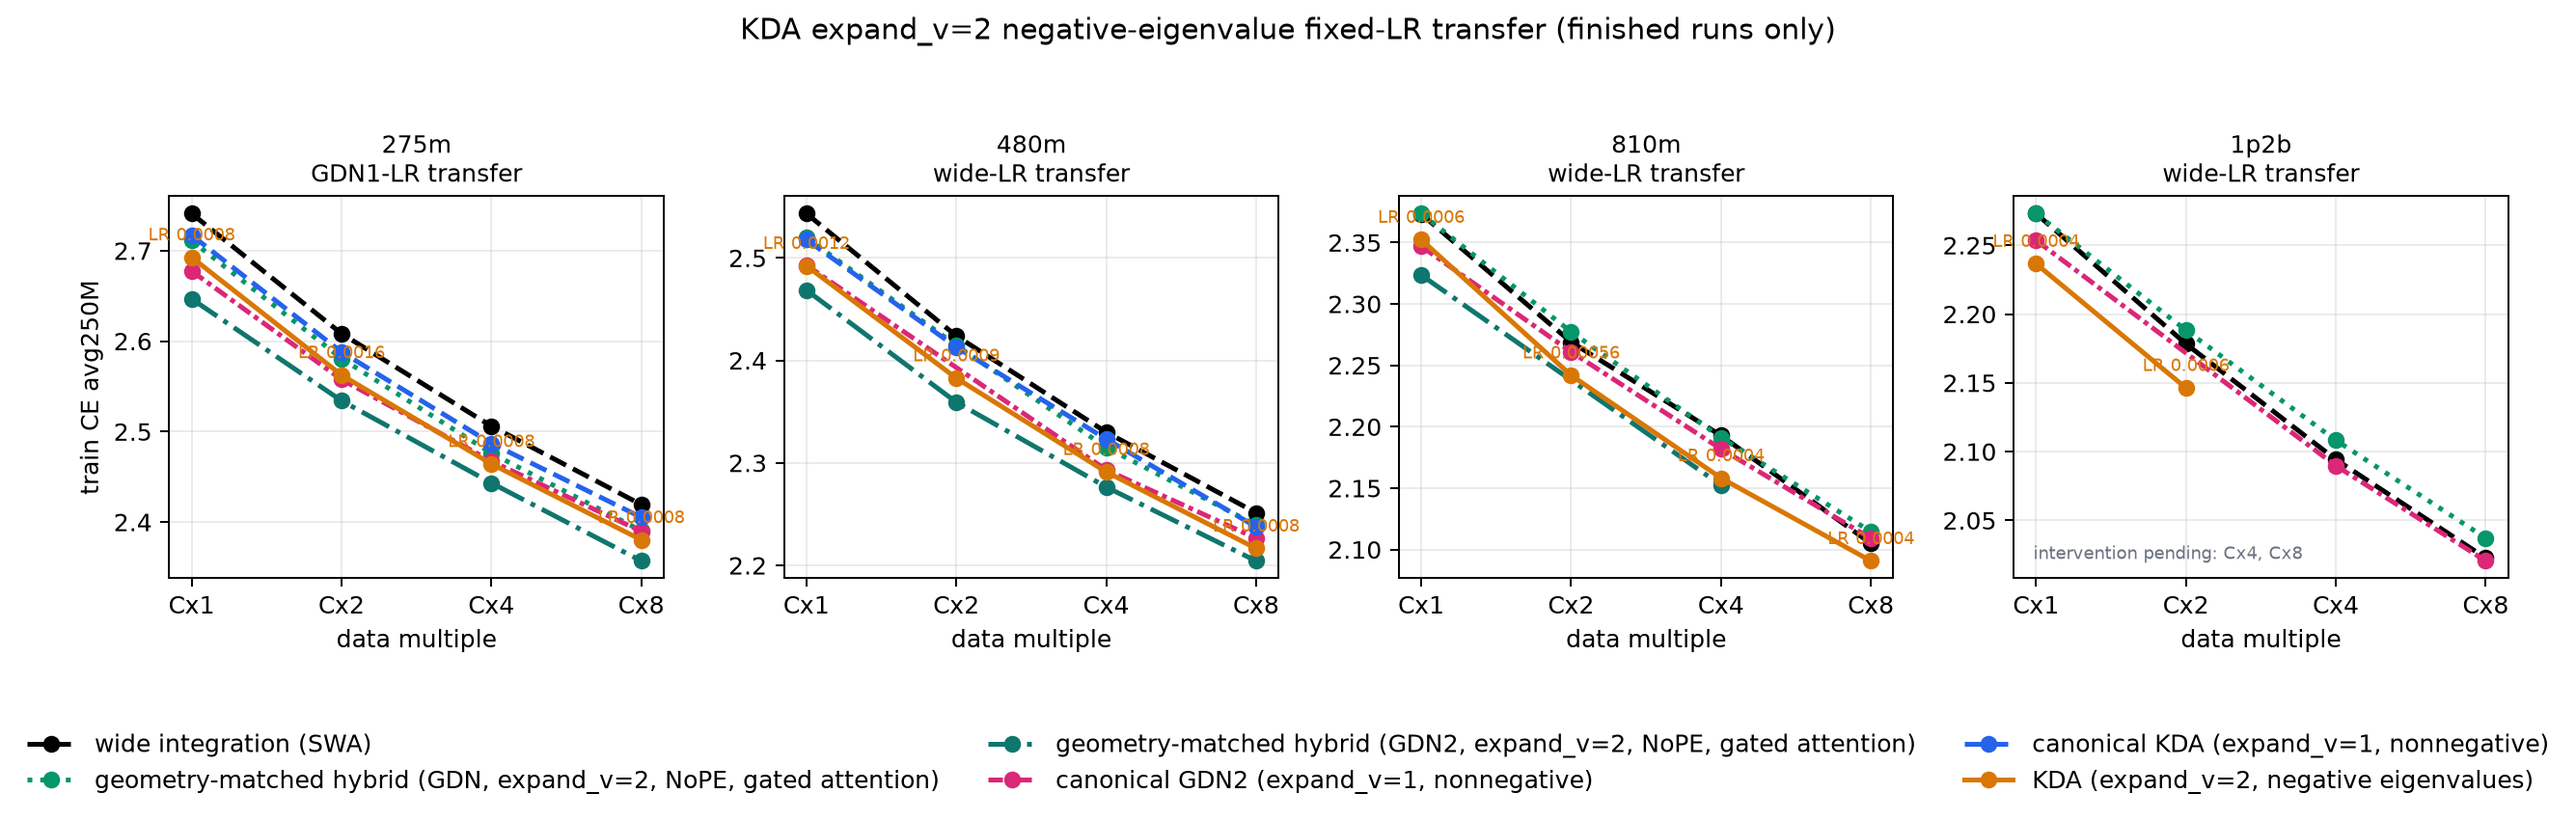
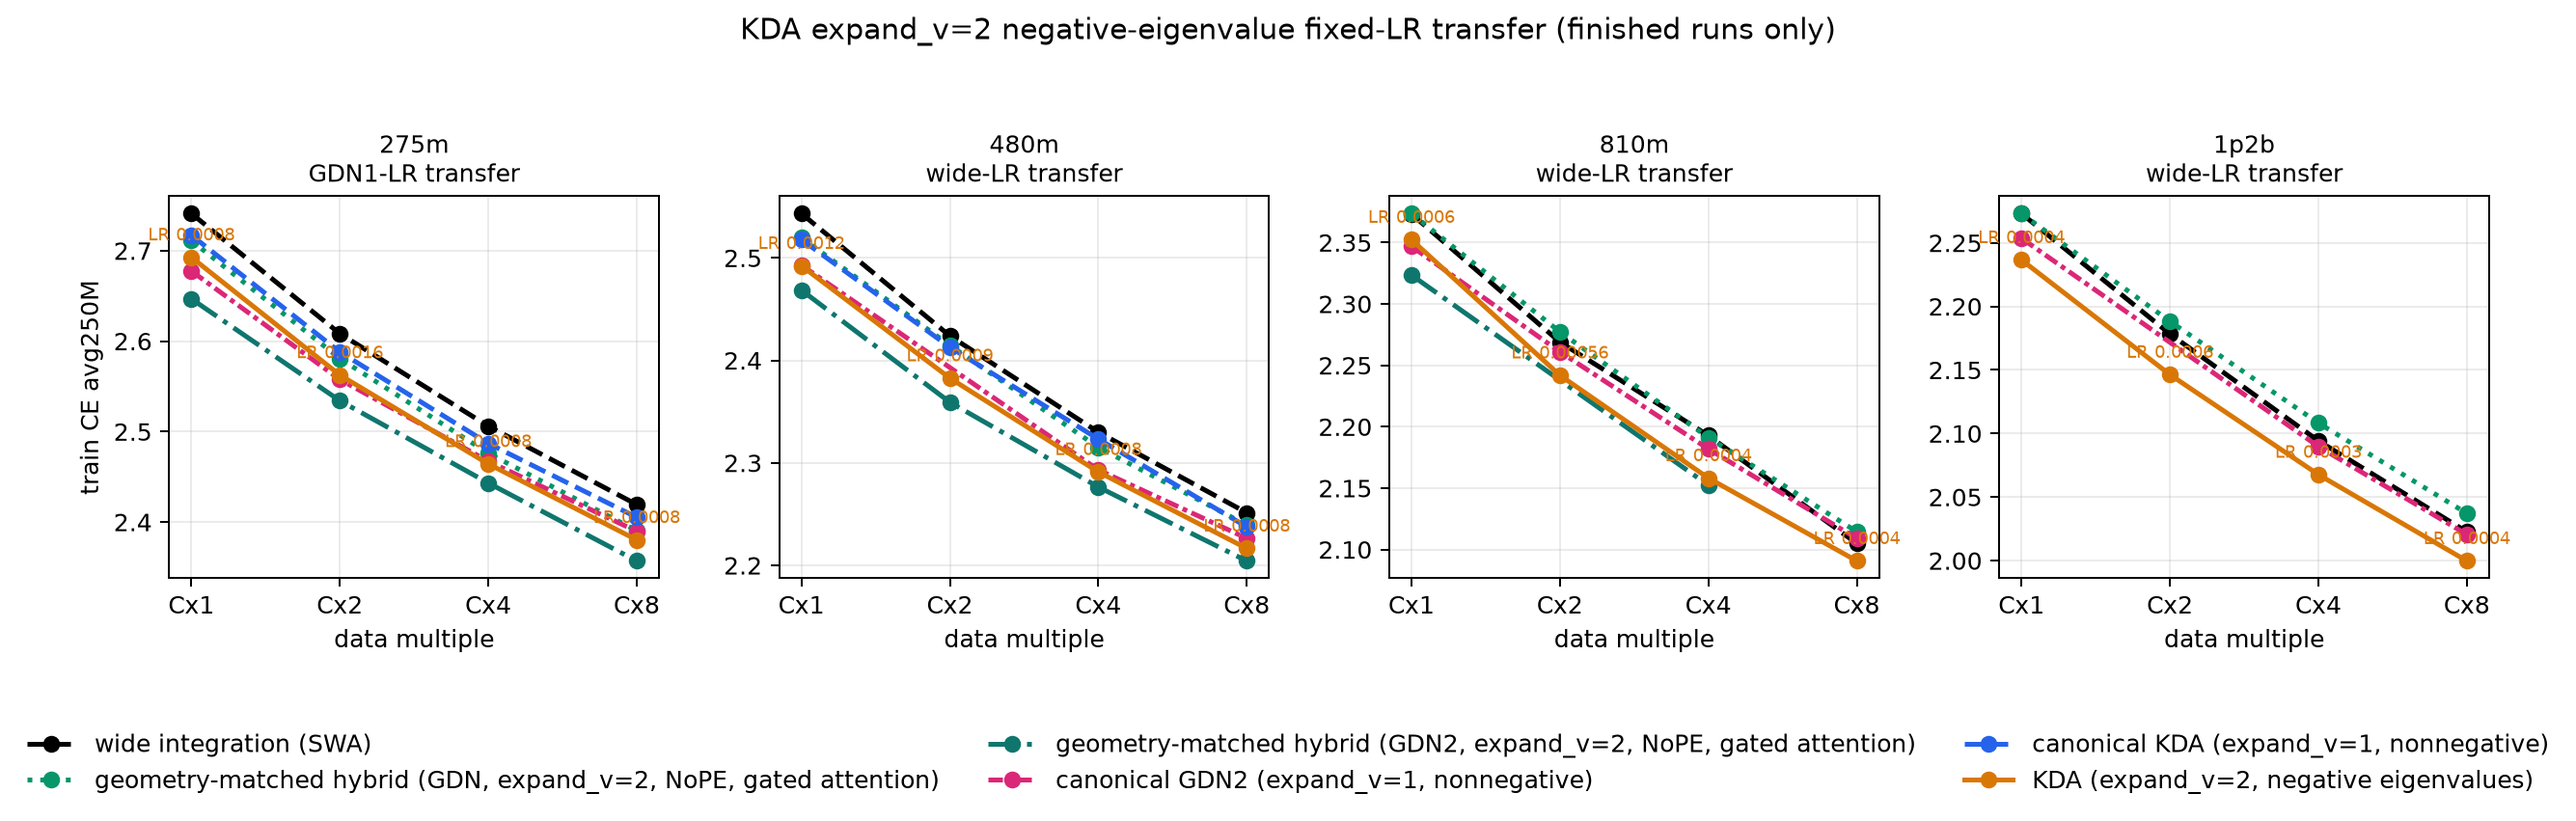
Add final 1.2B KDA comparison points

diff --git a/src/scripts/train/jacobm_olmoe_ladder/v2/results/pretraining/canonical_gdn2_kda/kda_ev2_neg_scale_results.md b/src/scripts/train/jacobm_olmoe_ladder/v2/results/pretraining/canonical_gdn2_kda/kda_ev2_neg_scale_results.md
@@ -1,6 +1,6 @@
 # KDA expand_v=2 negative-eigenvalue fixed-LR transfer
 
-Generated: `2026-07-29T15:42:01.060305+00:00`
+Generated: `2026-07-30T15:49:13.862921+00:00`
 
 Selection metric: final `250M`-token mean training CE. Only finished runs are eligible.
 The optimal-LR summary includes only bracketed 275M sweeps with a valid quadratic fit.
@@ -25,8 +25,8 @@ Fitted LR minima in the 275M U-plot are visual aids and are never used to select
 | 810m | Cx8 | fixed-LR transfer | finished | wide_integration: 2.104939 @ 0.0004; geometry_gdn_ev2_nope_gated: 2.114516 @ 0.0004; geometry_gdn2_ev2_nope_gated: —; geometry_gdn2_ev1_noneg_nope_gated: 2.109020 @ 0.0004; geometry_kda_ev1_noneg_nope_gated: — | 2.090719 (0.0004) | wide_integration: -0.014220; geometry_gdn_ev2_nope_gated: -0.023797; geometry_gdn2_ev2_nope_gated: —; geometry_gdn2_ev1_noneg_nope_gated: -0.018301; geometry_kda_ev1_noneg_nope_gated: — |
 | 1p2b | Cx1 | fixed-LR transfer | finished | wide_integration: 2.273062 @ 0.0004; geometry_gdn_ev2_nope_gated: 2.273007 @ 0.0004; geometry_gdn2_ev2_nope_gated: —; geometry_gdn2_ev1_noneg_nope_gated: 2.253605 @ 0.0004; geometry_kda_ev1_noneg_nope_gated: — | 2.236574 (0.0004) | wide_integration: -0.036488; geometry_gdn_ev2_nope_gated: -0.036433; geometry_gdn2_ev2_nope_gated: —; geometry_gdn2_ev1_noneg_nope_gated: -0.017031; geometry_kda_ev1_noneg_nope_gated: — |
 | 1p2b | Cx2 | fixed-LR transfer | finished | wide_integration: 2.178332 @ 0.0006; geometry_gdn_ev2_nope_gated: 2.188236 @ 0.0006; geometry_gdn2_ev2_nope_gated: —; geometry_gdn2_ev1_noneg_nope_gated: —; geometry_kda_ev1_noneg_nope_gated: — | 2.146299 (0.0006) | wide_integration: -0.032034; geometry_gdn_ev2_nope_gated: -0.041938; geometry_gdn2_ev2_nope_gated: —; geometry_gdn2_ev1_noneg_nope_gated: —; geometry_kda_ev1_noneg_nope_gated: — |
-| 1p2b | Cx4 | fixed-LR transfer | pending | wide_integration: 2.094219 @ 0.0003; geometry_gdn_ev2_nope_gated: 2.108263 @ 0.0003; geometry_gdn2_ev2_nope_gated: —; geometry_gdn2_ev1_noneg_nope_gated: 2.089778 @ 0.0003; geometry_kda_ev1_noneg_nope_gated: — | — | wide_integration: —; geometry_gdn_ev2_nope_gated: —; geometry_gdn2_ev2_nope_gated: —; geometry_gdn2_ev1_noneg_nope_gated: —; geometry_kda_ev1_noneg_nope_gated: — |
-| 1p2b | Cx8 | fixed-LR transfer | pending | wide_integration: 2.022641 @ 0.0004; geometry_gdn_ev2_nope_gated: 2.037147 @ 0.0004; geometry_gdn2_ev2_nope_gated: —; geometry_gdn2_ev1_noneg_nope_gated: 2.020529 @ 0.0004; geometry_kda_ev1_noneg_nope_gated: — | — | wide_integration: —; geometry_gdn_ev2_nope_gated: —; geometry_gdn2_ev2_nope_gated: —; geometry_gdn2_ev1_noneg_nope_gated: —; geometry_kda_ev1_noneg_nope_gated: — |
+| 1p2b | Cx4 | fixed-LR transfer | finished | wide_integration: 2.094219 @ 0.0003; geometry_gdn_ev2_nope_gated: 2.108263 @ 0.0003; geometry_gdn2_ev2_nope_gated: —; geometry_gdn2_ev1_noneg_nope_gated: 2.089778 @ 0.0003; geometry_kda_ev1_noneg_nope_gated: — | 2.067653 (0.0003) | wide_integration: -0.026567; geometry_gdn_ev2_nope_gated: -0.040610; geometry_gdn2_ev2_nope_gated: —; geometry_gdn2_ev1_noneg_nope_gated: -0.022125; geometry_kda_ev1_noneg_nope_gated: — |
+| 1p2b | Cx8 | fixed-LR transfer | finished | wide_integration: 2.022641 @ 0.0004; geometry_gdn_ev2_nope_gated: 2.037147 @ 0.0004; geometry_gdn2_ev2_nope_gated: —; geometry_gdn2_ev1_noneg_nope_gated: 2.020529 @ 0.0004; geometry_kda_ev1_noneg_nope_gated: — | 1.999736 (0.0004) | wide_integration: -0.022905; geometry_gdn_ev2_nope_gated: -0.037411; geometry_gdn2_ev2_nope_gated: —; geometry_gdn2_ev1_noneg_nope_gated: -0.020793; geometry_kda_ev1_noneg_nope_gated: — |
 
 ## Runs
 
@@ -163,7 +163,9 @@ Fitted LR minima in the 275M U-plot are visual aids and are never used to select
 | 1p2b | wide integration (SWA) | 2 | 0.0006 | finished | 42.835 | 2.178332 | 0 reset(s); 1 duplicate token sample(s) removed | [jfwntmwm](https://wandb.ai/ai2-llm/jacobm-olmoe-ladder/runs/jfwntmwm) |
 | 1p2b | canonical GDN2 (expand_v=1, nonnegative) | 4 | 0.0003 | finished | 88.040 | 2.089778 | 0 reset(s); 1 duplicate token sample(s) removed | [ws7c1f1s](https://wandb.ai/ai2-llm/jacobm-olmoe-ladder/runs/ws7c1f1s) |
 | 1p2b | geometry-matched hybrid (GDN, expand_v=2, NoPE, gated attention) | 4 | 0.0003 | finished | 93.719 | 2.108263 | 0 reset(s); 1 duplicate token sample(s) removed | [bhr5mgpr](https://wandb.ai/ai2-llm/jacobm-olmoe-ladder/runs/bhr5mgpr) |
+| 1p2b | KDA (expand_v=2, negative eigenvalues) | 4 | 0.0003 | finished | 89.841 | 2.067653 | — | [8j8vgags](https://wandb.ai/ai2-llm/jacobm-olmoe-ladder/runs/8j8vgags) |
 | 1p2b | wide integration (SWA) | 4 | 0.0003 | finished | 85.670 | 2.094219 | 0 reset(s); 1 duplicate token sample(s) removed | [u7ab1tpb](https://wandb.ai/ai2-llm/jacobm-olmoe-ladder/runs/u7ab1tpb) |
 | 1p2b | canonical GDN2 (expand_v=1, nonnegative) | 8 | 0.0004 | finished | 176.081 | 2.020529 | local W&B recovery (SHA256 04755c05000b…) | [dlerge4x](https://wandb.ai/ai2-llm/jacobm-olmoe-ladder/runs/dlerge4x) |
 | 1p2b | geometry-matched hybrid (GDN, expand_v=2, NoPE, gated attention) | 8 | 0.0004 | finished | 187.437 | 2.037147 | 0 reset(s); 1 duplicate token sample(s) removed | [z4zmtqmu](https://wandb.ai/ai2-llm/jacobm-olmoe-ladder/runs/z4zmtqmu) |
+| 1p2b | KDA (expand_v=2, negative eigenvalues) | 8 | 0.0004 | finished | 179.682 | 1.999736 | — | [shy5gj1d](https://wandb.ai/ai2-llm/jacobm-olmoe-ladder/runs/shy5gj1d) |
 | 1p2b | wide integration (SWA) | 8 | 0.0004 | finished | 171.340 | 2.022641 | 0 reset(s); 1 duplicate token sample(s) removed | [bqjzmiqi](https://wandb.ai/ai2-llm/jacobm-olmoe-ladder/runs/bqjzmiqi) |

diff --git a/src/scripts/train/jacobm_olmoe_ladder/v2/results/pretraining/canonical_gdn2_kda/our_settings_best_of_results.md b/src/scripts/train/jacobm_olmoe_ladder/v2/results/pretraining/canonical_gdn2_kda/our_settings_best_of_results.md
@@ -1,6 +1,6 @@
 # GDN1 vs GDN2 vs KDA — our settings
 
-Generated: `2026-07-29T15:42:01.068746+00:00`
+Generated: `2026-07-30T15:49:13.869617+00:00`
 
 Selection metric: final `250M`-token mean training CE. Only finished runs are eligible.
 The optimal-LR summary includes only bracketed 275M sweeps with a valid quadratic fit.
@@ -25,8 +25,8 @@ Fitted LR minima in the 275M U-plot are visual aids and are never used to select
 | 810m | Cx8 | fixed-LR transfer | finished | geometry_gdn_ev2_nope_gated: 2.114516 @ 0.0004; geometry_gdn2_ev2_nope_gated: — | 2.090719 (0.0004) | geometry_gdn_ev2_nope_gated: -0.023797; geometry_gdn2_ev2_nope_gated: — |
 | 1p2b | Cx1 | fixed-LR transfer | finished | geometry_gdn_ev2_nope_gated: 2.273007 @ 0.0004; geometry_gdn2_ev2_nope_gated: — | 2.236574 (0.0004) | geometry_gdn_ev2_nope_gated: -0.036433; geometry_gdn2_ev2_nope_gated: — |
 | 1p2b | Cx2 | fixed-LR transfer | finished | geometry_gdn_ev2_nope_gated: 2.188236 @ 0.0006; geometry_gdn2_ev2_nope_gated: — | 2.146299 (0.0006) | geometry_gdn_ev2_nope_gated: -0.041938; geometry_gdn2_ev2_nope_gated: — |
-| 1p2b | Cx4 | fixed-LR transfer | pending | geometry_gdn_ev2_nope_gated: 2.108263 @ 0.0003; geometry_gdn2_ev2_nope_gated: — | — | geometry_gdn_ev2_nope_gated: —; geometry_gdn2_ev2_nope_gated: — |
-| 1p2b | Cx8 | fixed-LR transfer | pending | geometry_gdn_ev2_nope_gated: 2.037147 @ 0.0004; geometry_gdn2_ev2_nope_gated: — | — | geometry_gdn_ev2_nope_gated: —; geometry_gdn2_ev2_nope_gated: — |
+| 1p2b | Cx4 | fixed-LR transfer | finished | geometry_gdn_ev2_nope_gated: 2.108263 @ 0.0003; geometry_gdn2_ev2_nope_gated: — | 2.067653 (0.0003) | geometry_gdn_ev2_nope_gated: -0.040610; geometry_gdn2_ev2_nope_gated: — |
+| 1p2b | Cx8 | fixed-LR transfer | finished | geometry_gdn_ev2_nope_gated: 2.037147 @ 0.0004; geometry_gdn2_ev2_nope_gated: — | 1.999736 (0.0004) | geometry_gdn_ev2_nope_gated: -0.037411; geometry_gdn2_ev2_nope_gated: — |
 
 ## Runs
 
@@ -94,4 +94,6 @@ Fitted LR minima in the 275M U-plot are visual aids and are never used to select
 | 1p2b | GDN1 (our settings) | 2 | 0.0006 | finished | 46.859 | 2.188236 | 1 reset(s); 131 duplicate token sample(s) removed | [kko6fe0y](https://wandb.ai/ai2-llm/jacobm-olmoe-ladder/runs/kko6fe0y) / [ama4a8s0](https://wandb.ai/ai2-llm/jacobm-olmoe-ladder/runs/ama4a8s0) / [u88pp5vm](https://wandb.ai/ai2-llm/jacobm-olmoe-ladder/runs/u88pp5vm) |
 | 1p2b | KDA (our settings) | 2 | 0.0006 | finished | 44.921 | 2.146299 | 0 reset(s); 1 duplicate token sample(s) removed | [86nmqw4e](https://wandb.ai/ai2-llm/jacobm-olmoe-ladder/runs/86nmqw4e) |
 | 1p2b | GDN1 (our settings) | 4 | 0.0003 | finished | 93.719 | 2.108263 | 0 reset(s); 1 duplicate token sample(s) removed | [bhr5mgpr](https://wandb.ai/ai2-llm/jacobm-olmoe-ladder/runs/bhr5mgpr) |
+| 1p2b | KDA (our settings) | 4 | 0.0003 | finished | 89.841 | 2.067653 | — | [8j8vgags](https://wandb.ai/ai2-llm/jacobm-olmoe-ladder/runs/8j8vgags) |
 | 1p2b | GDN1 (our settings) | 8 | 0.0004 | finished | 187.437 | 2.037147 | 0 reset(s); 1 duplicate token sample(s) removed | [z4zmtqmu](https://wandb.ai/ai2-llm/jacobm-olmoe-ladder/runs/z4zmtqmu) |
+| 1p2b | KDA (our settings) | 8 | 0.0004 | finished | 179.682 | 1.999736 | — | [shy5gj1d](https://wandb.ai/ai2-llm/jacobm-olmoe-ladder/runs/shy5gj1d) |

diff --git a/src/scripts/train/jacobm_olmoe_ladder/v2/results/pretraining/canonical_gdn2_kda/scale_results.md b/src/scripts/train/jacobm_olmoe_ladder/v2/results/pretraining/canonical_gdn2_kda/scale_results.md
@@ -1,6 +1,6 @@
 # Canonical GDN2 and KDA fixed-LR scale comparison
 
-Generated: `2026-07-29T15:42:01.052739+00:00`
+Generated: `2026-07-30T15:49:13.854818+00:00`
 
 Selection metric: final `250M`-token mean training CE. Only finished runs are eligible.
 The optimal-LR summary includes only bracketed 275M sweeps with a valid quadratic fit.

diff --git a/src/scripts/train/jacobm_olmoe_ladder/v2/results/pretraining/canonical_gdn2_kda/results.md b/src/scripts/train/jacobm_olmoe_ladder/v2/results/pretraining/canonical_gdn2_kda/results.md
@@ -1,6 +1,6 @@
 # Canonical GDN2 and KDA 275M comparison
 
-Generated: `2026-07-29T15:42:01.046003+00:00`
+Generated: `2026-07-30T15:49:13.849400+00:00`
 
 Only bracketed curves enter the shared best-of plot. Every label is the observed-best LR; fitted minima are never substituted.
 
